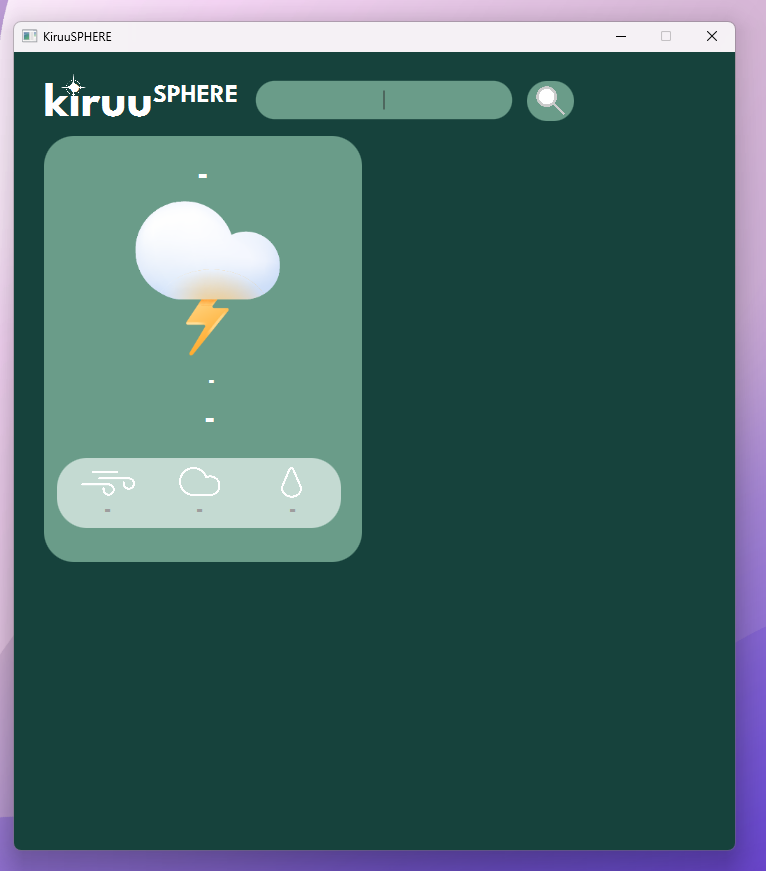
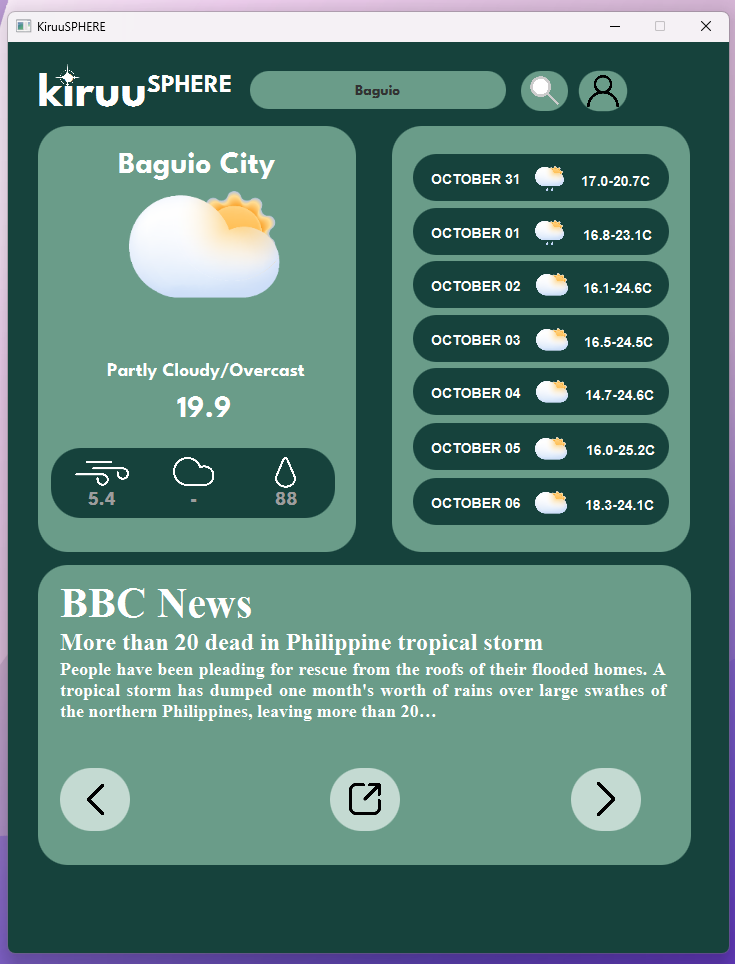
Added pending project files

diff --git a/readme.md b/readme.md
@@ -3,12 +3,12 @@
 ### KiruuSphere is a simple and intuitive weather application built using JavaFX. It leverages the Open-Meteo Weather API to provide real-time weather updates and conditions for any location around the globe. With a user-friendly interface, it aims to help users stay updated with current weather and forecast information.
 
 ## Sample Current Development Design
-- News API is utilized to provide latest weather updates in the locale
-- Showing the articles in the bottom pane is under implementation
+- Code refactoring in progress to optimize performance especially on WebView.
 
 
 ![Weather App Main Pane](weathermain.png)
 ![Weather App Search Pane](weathersearch.png)
+![Weather App Article Screen](weatherarticle.png)
 
 ## ✨ Features
 
@@ -18,20 +18,6 @@
 - Forecasting: Provides future weather predictions based on selected locations.
 - Air Quality Monitoring (Optional): Track air quality index and conditions if enabled.
 
-## 🚀 To-Be-Implemented
-
-- Create a favorites system for users to save default locations.
-- Implement an Absolute Layout in JavaFX to manage custom component placements.
-- Optionally, show air quality levels based on location data.
-- Add a detailed view for future weather predictions.
-
-## ⚙ Tech Stack
-
-- JavaFX: For the graphical user interface.
-- Open-Meteo API: For retrieving live weather data.
-- Maven/Gradle: For project management and dependencies.
-
-## 🛠 Prerequisites
 
 ### Before running this project, ensure you have the following:
 - JDK 11 or above
@@ -40,11 +26,6 @@
 
 ## 🚧 Project Status
 
-## The Currency Converter and this project are simultaneously being developed and maintained. Thus, development will be slower than usual.
+### The Currency Converter and this project are simultaneously being developed and maintained. Thus, development will be slower than usual.
 
-## 📈 Roadmap
 
-- API Integration: Implement API calls to fetch weather data.
-- UI Design: Develop a clean and intuitive JavaFX interface.
-- Favorites Management: Implement feature for saving default locations.
-- Additional Features: Expand functionality to include air quality, detailed forecast views, and custom themes.
